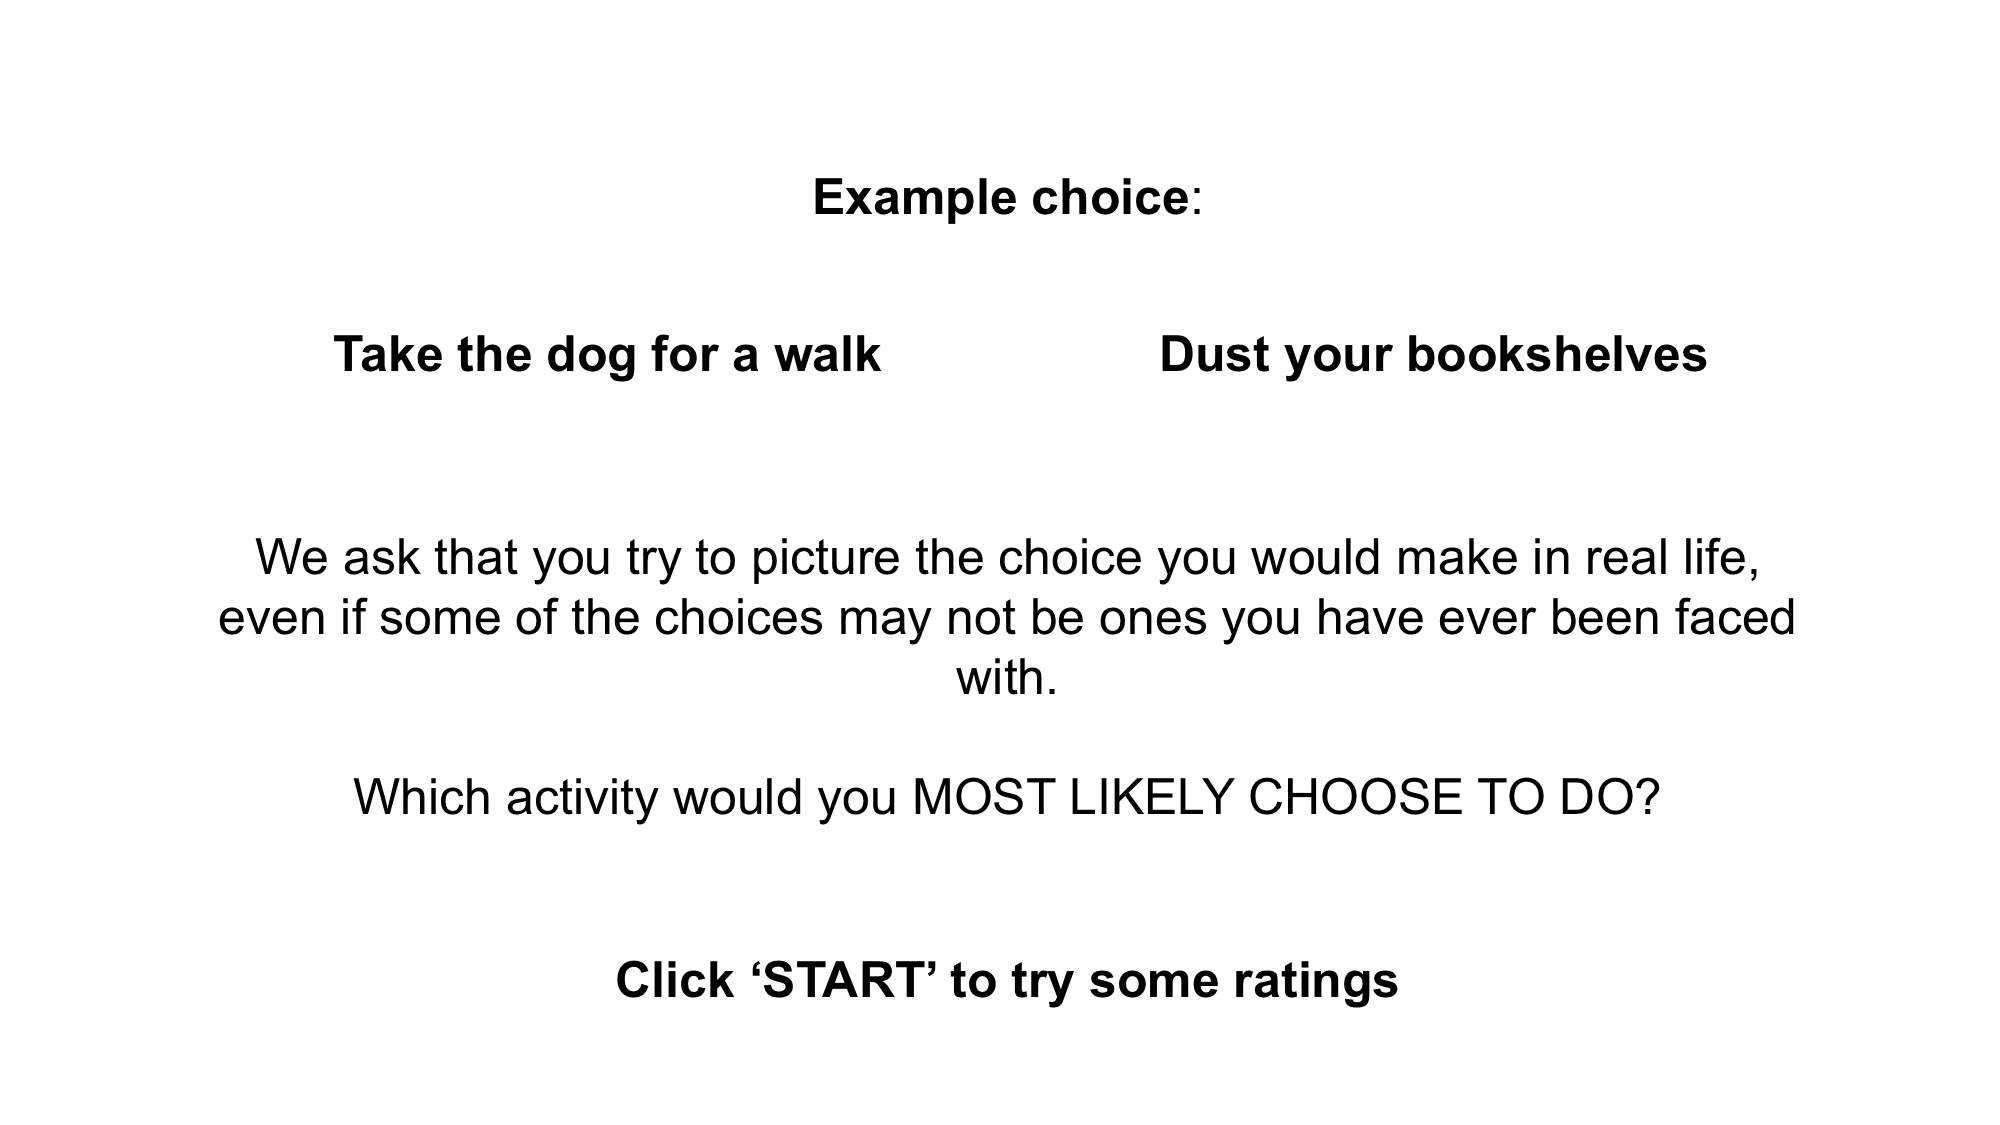
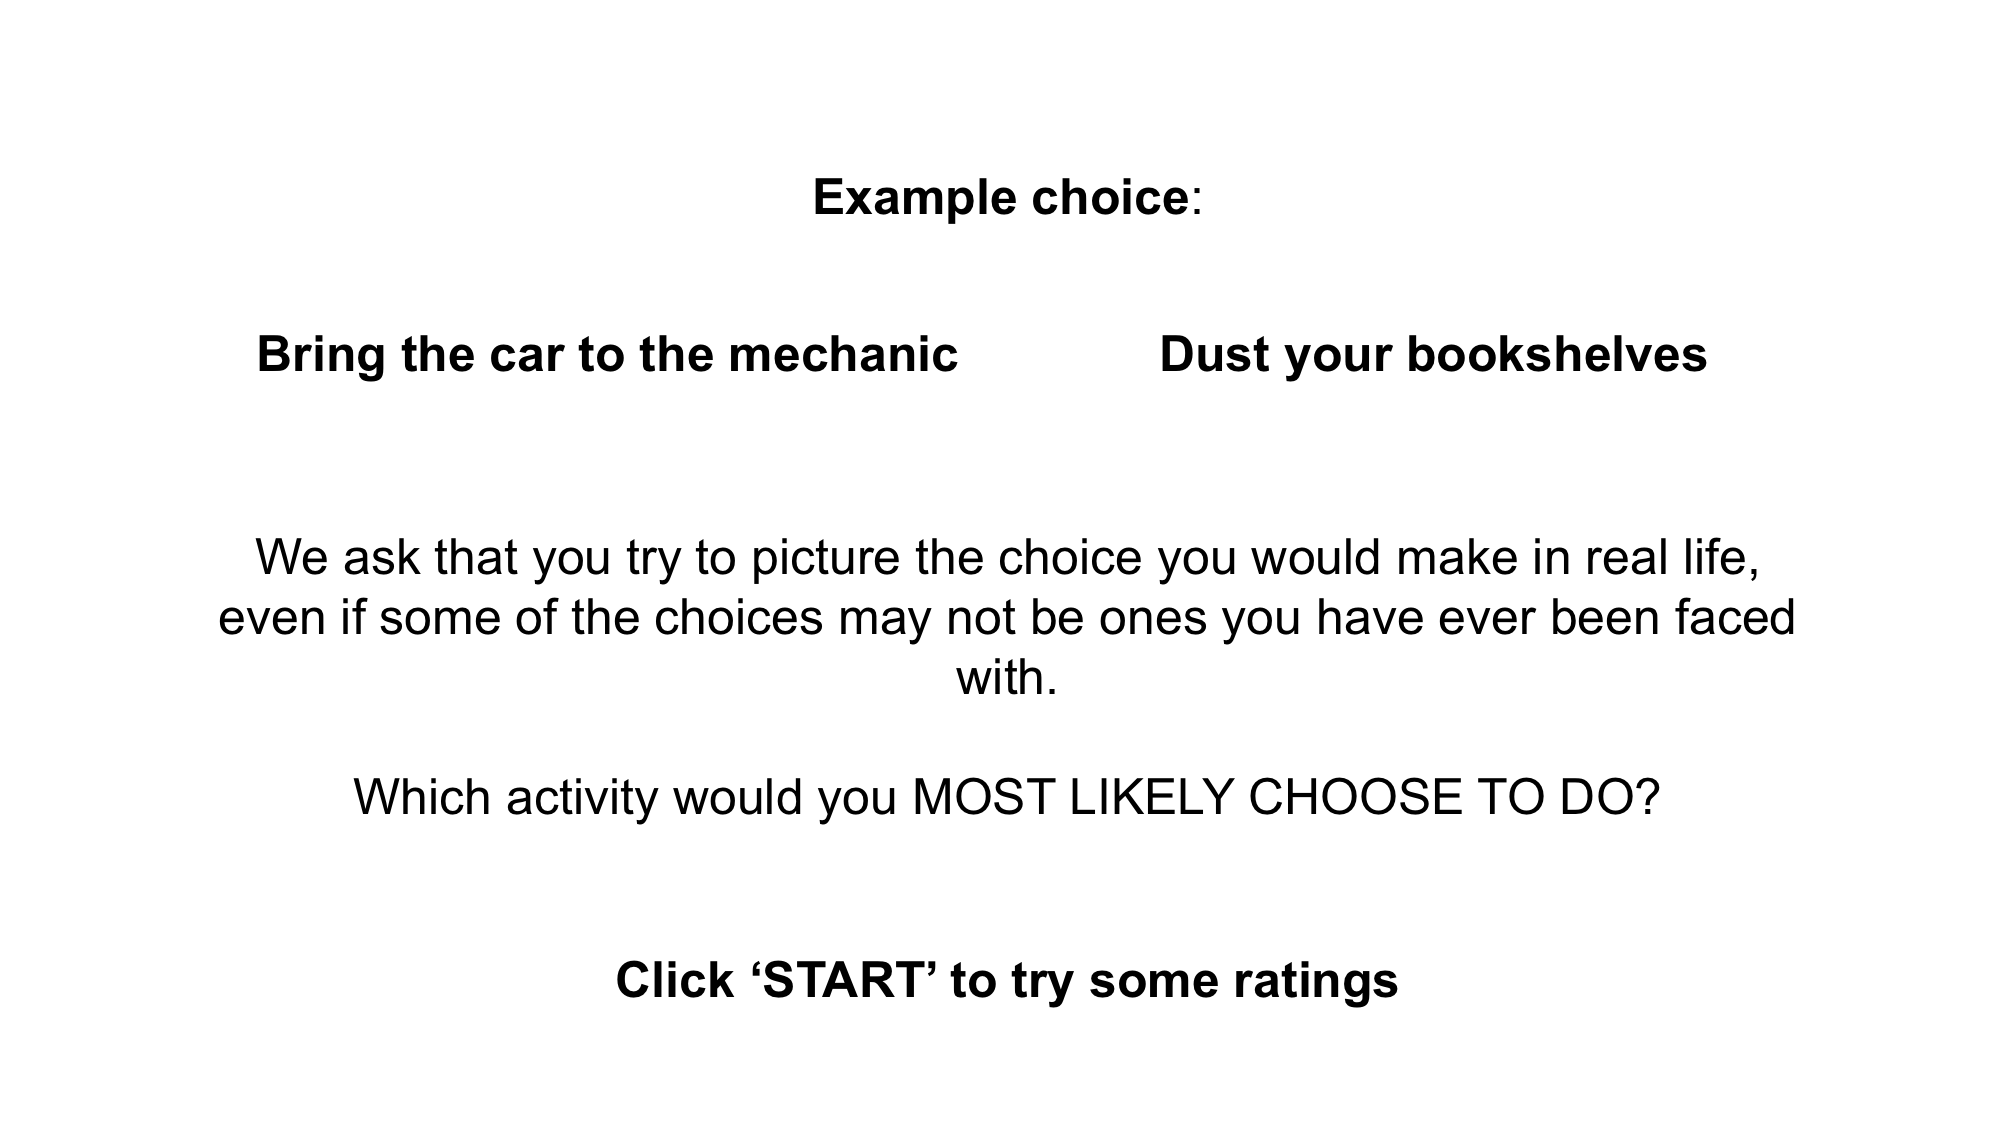
Corrected example activities for choice game

Changed region(s): [[0.124, 0.28, 0.496, 0.3422]]

diff --git a/src/app/pages/tasks/choice/stimuli_task.ts b/src/app/pages/tasks/choice/stimuli_task.ts
@@ -1,5 +1,6 @@
 export let pracSet = [
-    "Bring the dog for a walk",
-    "Bring the car to the mechanic"
+    
+    "Bring the car to the mechanic",
+    "Dust your bookshelves",
 ]
 
